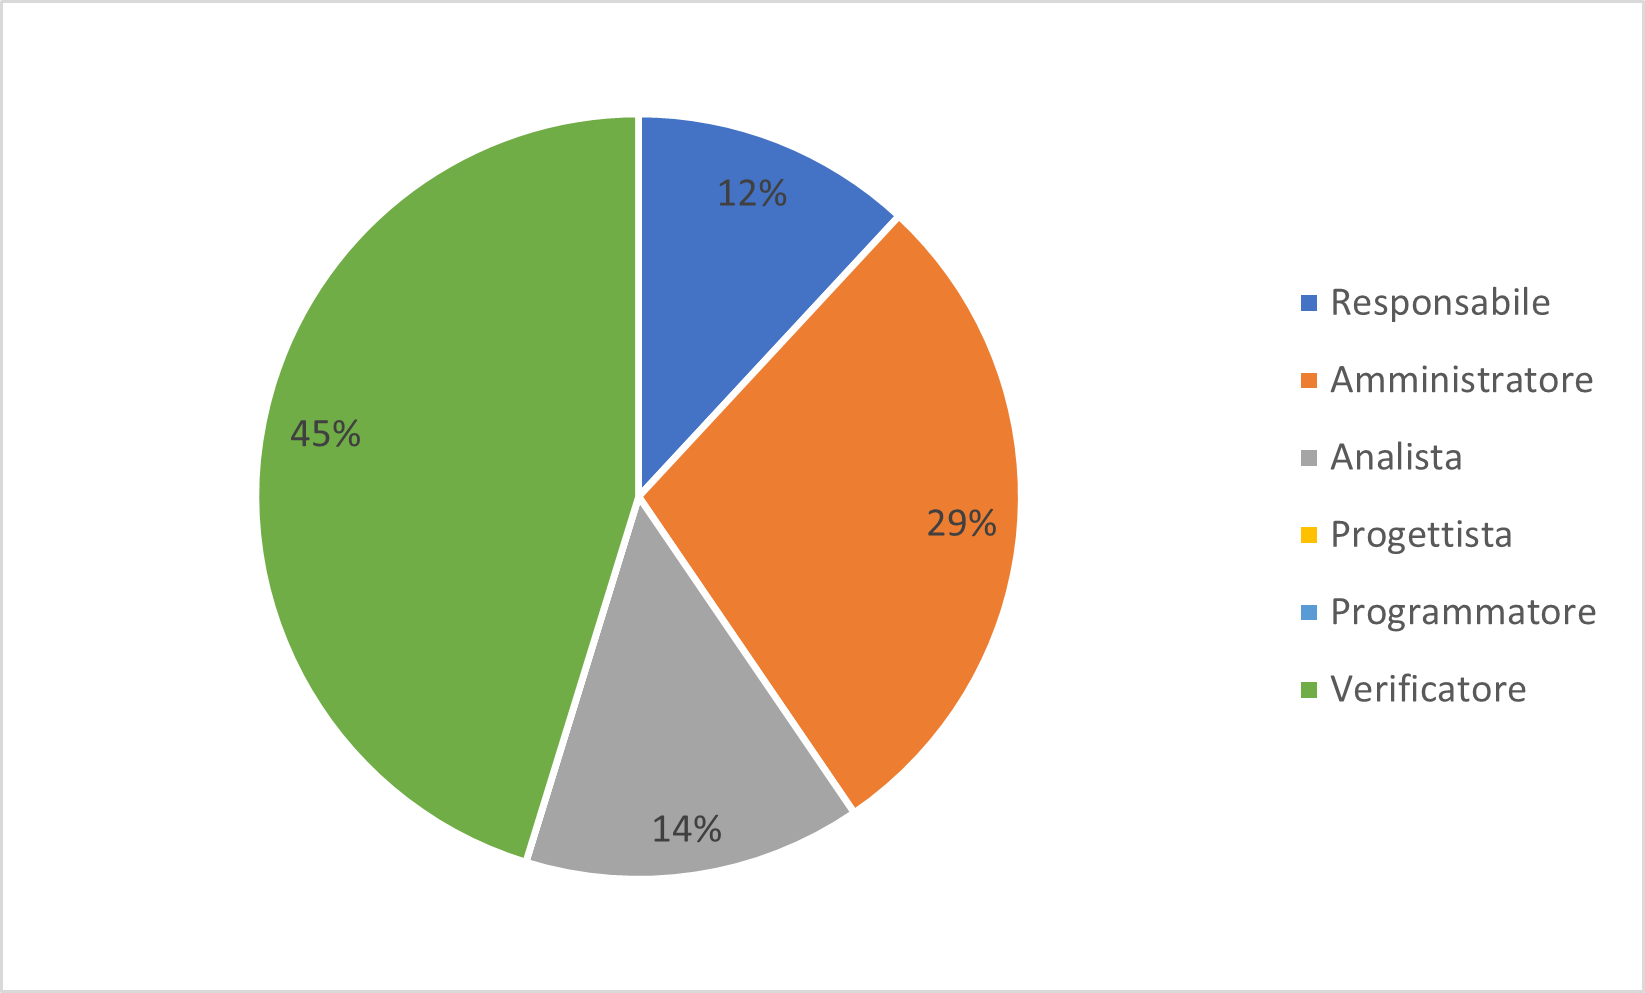
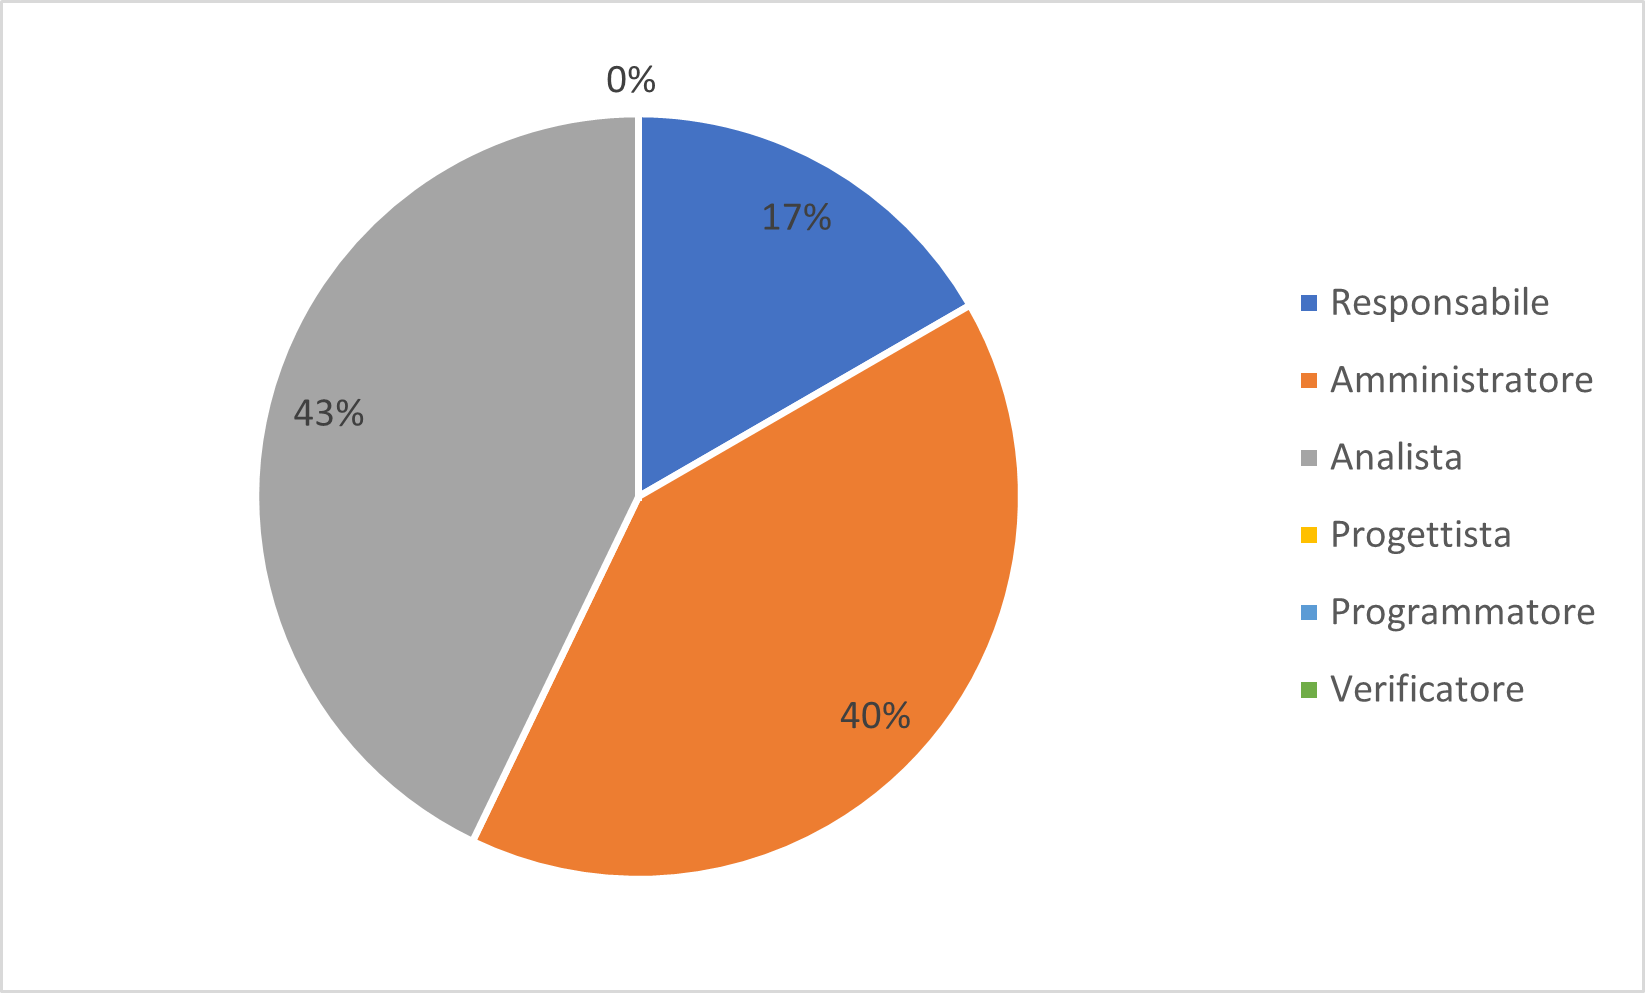
[fix] preventivi dettagliati fase di analisi

diff --git a/Esterni/PianoDiProgetto/res/sections/preventivo/preventivo.tex b/Esterni/PianoDiProgetto/res/sections/preventivo/preventivo.tex
@@ -1,6 +1,6 @@
 % !TeX root = ../../../main.tex
 \section{Preventivo} \label{_preventivo}
-In questa sezione viene riportato il preventivo per il progetto, suddividendo le ore di lavoro e i costi per le varie fasi previste da %ref{_pianificazione}.
+In questa sezione viene riportato il preventivo per il progetto, suddividendo le ore di lavoro e i costi nelle varie fasi descritte in dettaglio in \ref{_pianificazione}.
 Le fasi di analisi e di consolidamento dei requisiti, tuttavia, non vengono tenute in considerazione nel calcolo del preventivo finale.
 La suddivisione oraria dei ruoli per ogni membro del gruppo dovrà rispettare le seguenti regole:
 		\begin{itemize}
@@ -22,7 +22,7 @@ La suddivisione oraria dei ruoli per ogni membro del gruppo dovrà rispettare le
 
 	\subsubsection{I periodo}
 	\paragraph{Prospetto orario}
-			Durante il primo periodo la distribuzione oraria complessiva sarà la seguente:
+			Durante il primo periodo la distribuzione oraria sarà la seguente:
 			
 			\rowcolors{1}{lightest-grayest}{blue!20}
 			\begin{longtable}{|l|c|c|c|c|c|c|c|}
@@ -33,28 +33,28 @@ La suddivisione oraria dei ruoli per ogni membro del gruppo dovrà rispettare le
 				\endfirsthead
 				
 				\hline
-				Marco Canovese & 0 &3 & 0 & 0 & 0 & 3 & 6\\
+				Marco Canovese & 0 &3 & 3 & 0 & 0 & 0 & 6\\
 				\hline
 				\hline
-				Nicole Davanzo & 2 & 1 & 2 & 0 & 0 & 1 & 6\\
+				Nicole Davanzo & 2 & 1 & 3 & 0 & 0 & 0 & 6\\
 				\hline
 				\hline
-				Ivan Furlan & 0 & 1 & 0 & 0 & 0 & 5 & 6\\
+				Ivan Furlan & 0 & 4 & 2 & 0 & 0 & 0 & 6\\
 				\hline
 				\hline
-				Gianmarco Guazzo & 0 & 2 & 2 & 0 & 0 & 2 & 6\\
+				Gianmarco Guazzo & 2 & 2 & 2 & 0 & 0 & 0 & 6\\
 				\hline
 				\hline
-				Stefano Lazzaroni & 2 & 0 & 2 & 0 & 0 & 2 & 6\\
+				Stefano Lazzaroni & 2 & 0 & 4 & 0 & 0 & 0 & 6\\
 				\hline
 				\hline
-				Francesco Trolese & 1 & 2 & 0 & 0 & 0 & 3 & 6\\
+				Francesco Trolese & 1 & 3 & 2 & 0 & 0 & 0 & 6\\
 				\hline
 				\hline
-				Michele Veronesi & 0 & 3 & 0 & 0 & 0 & 3 & 6\\
+				Michele Veronesi & 0 & 4 & 2 & 0 & 0 & 0 & 6\\
 				\hline 
 				\hline
-				Totale & 5 & 12 & 6 & 0 & 0 & 19 & 42\\
+				Totale & 7 & 17 & 18 & 0 & 0 & 0 & 42\\
 				\hline
 				\rowcolor{white} 
 				\caption{Tabella contenente il prospetto orario preventivato per il primo periodo}
@@ -82,13 +82,13 @@ La suddivisione oraria dei ruoli per ogni membro del gruppo dovrà rispettare le
 				\endfirsthead
 				
 				\hline
-				Responsabile & 5 & 150,00\\
+				Responsabile & 7 & 210,00\\
 				\hline
 				\hline
-				Amministratore & 12 & 240,00\\
+				Amministratore & 17 & 340,00\\
 				\hline
 				\hline
-				Analista & 6 & 150,00\\
+				Analista & 18 & 450,00\\
 				\hline
 				\hline
 				Progettista & - & -\\
@@ -97,9 +97,9 @@ La suddivisione oraria dei ruoli per ogni membro del gruppo dovrà rispettare le
 				Programmatore & - & -\\
 				\hline
 				\hline
-				Verificatore & 19 & 285,00\\
+				Verificatore & - & -\\
 				\hline
-				\textbf{Totale} & 42 & 825,00\\
+				\textbf{Totale} & 42 & 1.000,00\\
 				\hline
 				\rowcolor{white}
 				\caption{Tabella contenente il prospetto economico in riferimento al prospetto orario}
@@ -116,7 +116,7 @@ La suddivisione oraria dei ruoli per ogni membro del gruppo dovrà rispettare le
 
 	\subsubsection{II periodo}
 	\paragraph{Prospetto orario}
-			Durante il secondo periodo la distribuzione oraria complessiva sarà la seguente:
+			Durante il secondo periodo la distribuzione oraria sarà la seguente:
 			
 			\rowcolors{1}{lightest-grayest}{blue!20}
 			\begin{longtable}{|l|c|c|c|c|c|c|c|}
@@ -211,7 +211,7 @@ La suddivisione oraria dei ruoli per ogni membro del gruppo dovrà rispettare le
 
 	\subsubsection{III periodo}
 	\paragraph{Prospetto orario}
-			Durante il terzo periodo la distribuzione oraria complessiva sarà la seguente:
+			Durante il terzo periodo la distribuzione oraria sarà la seguente:
 			
 			\rowcolors{1}{lightest-grayest}{blue!20}
 			\begin{longtable}{|l|c|c|c|c|c|c|c|}
@@ -222,28 +222,28 @@ La suddivisione oraria dei ruoli per ogni membro del gruppo dovrà rispettare le
 				\endfirsthead
 				
 				\hline
-				Marco Canovese & 0 & 2 & 2 & 0 & 0 & 4 & 8\\
+				Marco Canovese & 0 & 2 & 0 & 0 & 0 & 6 & 8\\
 				\hline
 				\hline
-				Nicole Davanzo & 2 & 0 & 4 & 0 & 0 & 2 & 8\\
+				Nicole Davanzo & 2 & 0 & 3 & 0 & 0 & 3 & 8\\
 				\hline
 				\hline
-				Ivan Furlan & 0 & 3 & 3 & 0 & 0 & 2 & 8\\
+				Ivan Furlan & 0 & 1 & 2 & 0 & 0 & 5 & 8\\
 				\hline
 				\hline
-				Gianmarco Guazzo & 3 & 1 & 4 & 0 & 0 & 0 & 8\\
+				Gianmarco Guazzo & 1 & 1 & 4 & 0 & 0 & 2 & 8\\
 				\hline
 				\hline
 				Stefano Lazzaroni & 3 & 0 & 3 & 0 & 0 & 2 & 8\\
 				\hline
 				\hline
-				Francesco Trolese & 0 & 1 & 5 & 0 & 0 & 2 & 8\\
+				Francesco Trolese & 0 & 0 & 3 & 0 & 0 & 5 & 8\\
 				\hline
 				\hline
-				Michele Veronesi & 0 & 1 & 3 & 0 & 0 & 4 & 8\\
+				Michele Veronesi & 0 & 0 & 2 & 0 & 0 & 6 & 8\\
 				\hline 
 				\hline
-				Totale & 8 & 8 & 24 & 0 & 0 & 16 & 56\\
+				Totale & 6 & 4 & 17 & 0 & 0 & 29 & 56\\
 				\hline
 				\rowcolor{white} 
 				\caption{Tabella contenente il prospetto orario preventivato per il terzo periodo}
@@ -271,13 +271,13 @@ La suddivisione oraria dei ruoli per ogni membro del gruppo dovrà rispettare le
 				\endfirsthead
 				
 				\hline
-				Responsabile & 8 & 240,00\\
+				Responsabile & 6 & 180,00\\
 				\hline
 				\hline
-				Amministratore & 8 & 160,00\\
+				Amministratore & 4 & 80,00\\
 				\hline
 				\hline
-				Analista & 24 & 600,00\\
+				Analista & 17 & 425,00\\
 				\hline
 				\hline
 				Progettista & - & -\\
@@ -286,9 +286,9 @@ La suddivisione oraria dei ruoli per ogni membro del gruppo dovrà rispettare le
 				Programmatore & - & -\\
 				\hline
 				\hline
-				Verificatore & 16 & 240,00\\
+				Verificatore & 29 & 435,00\\
 				\hline
-				\textbf{Totale} & 56 & 1.240,00\\
+				\textbf{Totale} & 56 & 1.120,00\\
 				\hline
 				\rowcolor{white}
 				\caption{Tabella contenente il prospetto economico in riferimento al prospetto orario}
@@ -305,7 +305,7 @@ La suddivisione oraria dei ruoli per ogni membro del gruppo dovrà rispettare le
 
 	\subsubsection{IV periodo}
 	\paragraph{Prospetto orario}
-			Durante il quarto periodo la distribuzione oraria complessiva sarà la seguente:
+			Durante il quarto periodo la distribuzione oraria sarà la seguente:
 			
 			\rowcolors{1}{lightest-grayest}{blue!20}
 			\begin{longtable}{|l|c|c|c|c|c|c|c|}
@@ -316,28 +316,28 @@ La suddivisione oraria dei ruoli per ogni membro del gruppo dovrà rispettare le
 				\endfirsthead
 				
 				\hline
-				Marco Canovese & 0 & 1 & 4 & 0 & 0 & 3 & 8\\
+				Marco Canovese & 0 & 1 & 3 & 0 & 0 & 4 & 8\\
 				\hline
 				\hline
 				Nicole Davanzo & 2 & 0 & 3 & 0 & 0 & 3 & 8\\
 				\hline
 				\hline
-				Ivan Furlan & 0 & 1 & 6 & 0 & 0 & 1 & 8\\
+				Ivan Furlan & 0 & 0 & 5 & 0 & 0 & 3 & 8\\
 				\hline
 				\hline
 				Gianmarco Guazzo & 0 & 0 & 2 & 0 & 0 & 6 & 8\\
 				\hline
 				\hline
-				Stefano Lazzaroni & 1 & 0 & 6 & 0 & 0 & 1 & 8\\
+				Stefano Lazzaroni & 1 & 0 &4 & 0 & 0 & 3 & 8\\
 				\hline
 				\hline
 				Francesco Trolese & 4 & 0 & 2 & 0 & 0 & 2 & 8\\
 				\hline
 				\hline
-				Michele Veronesi & 0 & 0 & 4 & 0 & 0 & 4 & 8\\
+				Michele Veronesi & 0 & 0 & 3 & 0 & 0 & 5 & 8\\
 				\hline 
 				\hline
-				Totale & 7 & 2 & 27 & 0 & 0 & 20 & 56\\
+				Totale & 7 & 1 & 22 & 0 & 0 & 26 & 56\\
 				\hline
 				\rowcolor{white} 
 				\caption{Tabella contenente il prospetto orario preventivato per il quarto periodo}
@@ -368,10 +368,10 @@ La suddivisione oraria dei ruoli per ogni membro del gruppo dovrà rispettare le
 				Responsabile & 7 & 210,00\\
 				\hline
 				\hline
-				Amministratore & 2 & 40,00\\
+				Amministratore & 1 & 20,00\\
 				\hline
 				\hline
-				Analista & 27 & 675,00\\
+				Analista & 22 & 550,00\\
 				\hline
 				\hline
 				Progettista & - & -\\
@@ -380,9 +380,9 @@ La suddivisione oraria dei ruoli per ogni membro del gruppo dovrà rispettare le
 				Programmatore & - & -\\
 				\hline
 				\hline
-				Verificatore & 20 & 300,00\\
+				Verificatore & 26 & 390,00\\
 				\hline
-				\textbf{Totale} & 56 & 1.225,00\\
+				\textbf{Totale} & 56 & 1.170,00\\
 				\hline
 				\rowcolor{white}
 				\caption{Tabella contenente il prospetto economico in riferimento al prospetto orario}
